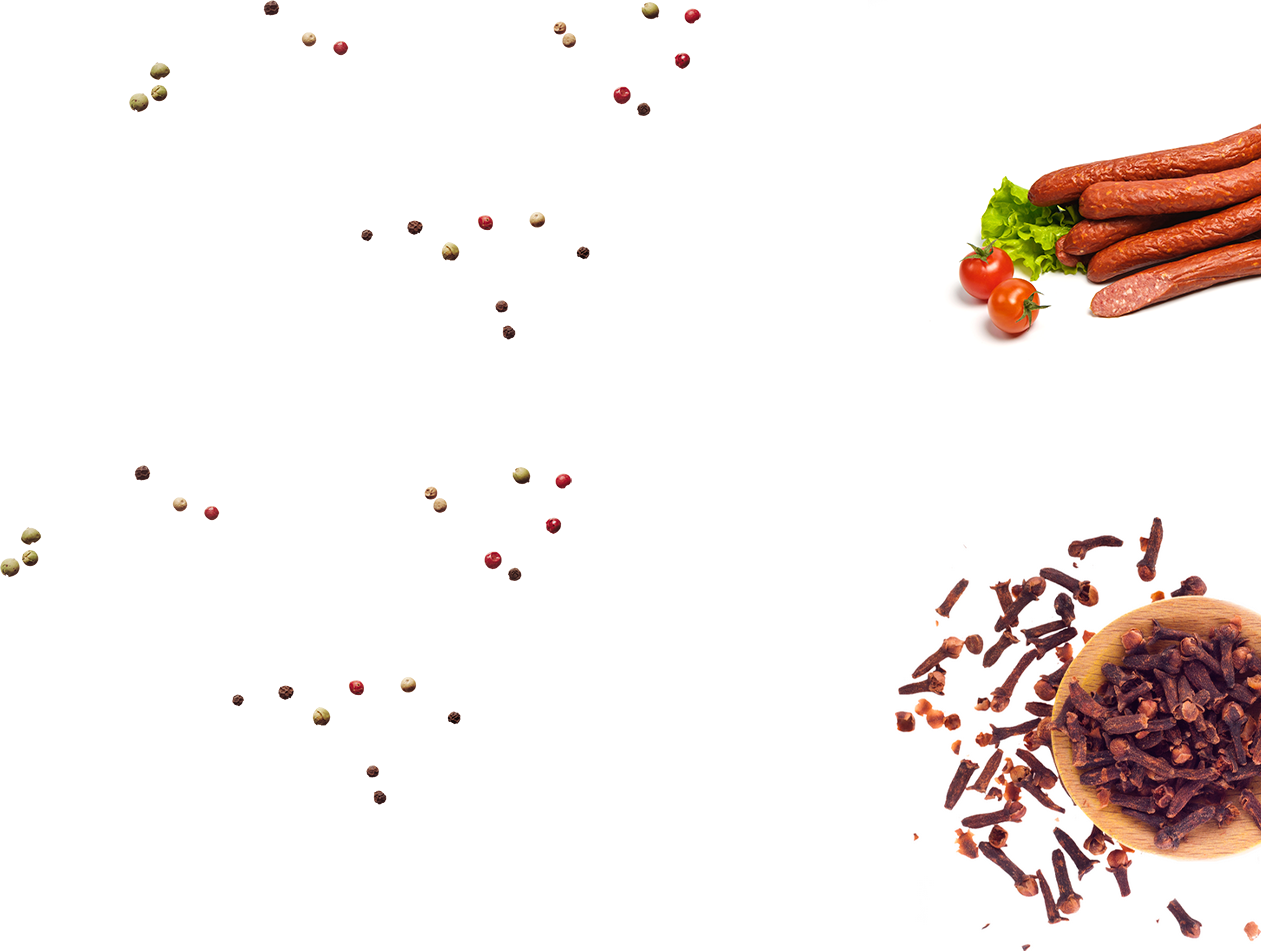
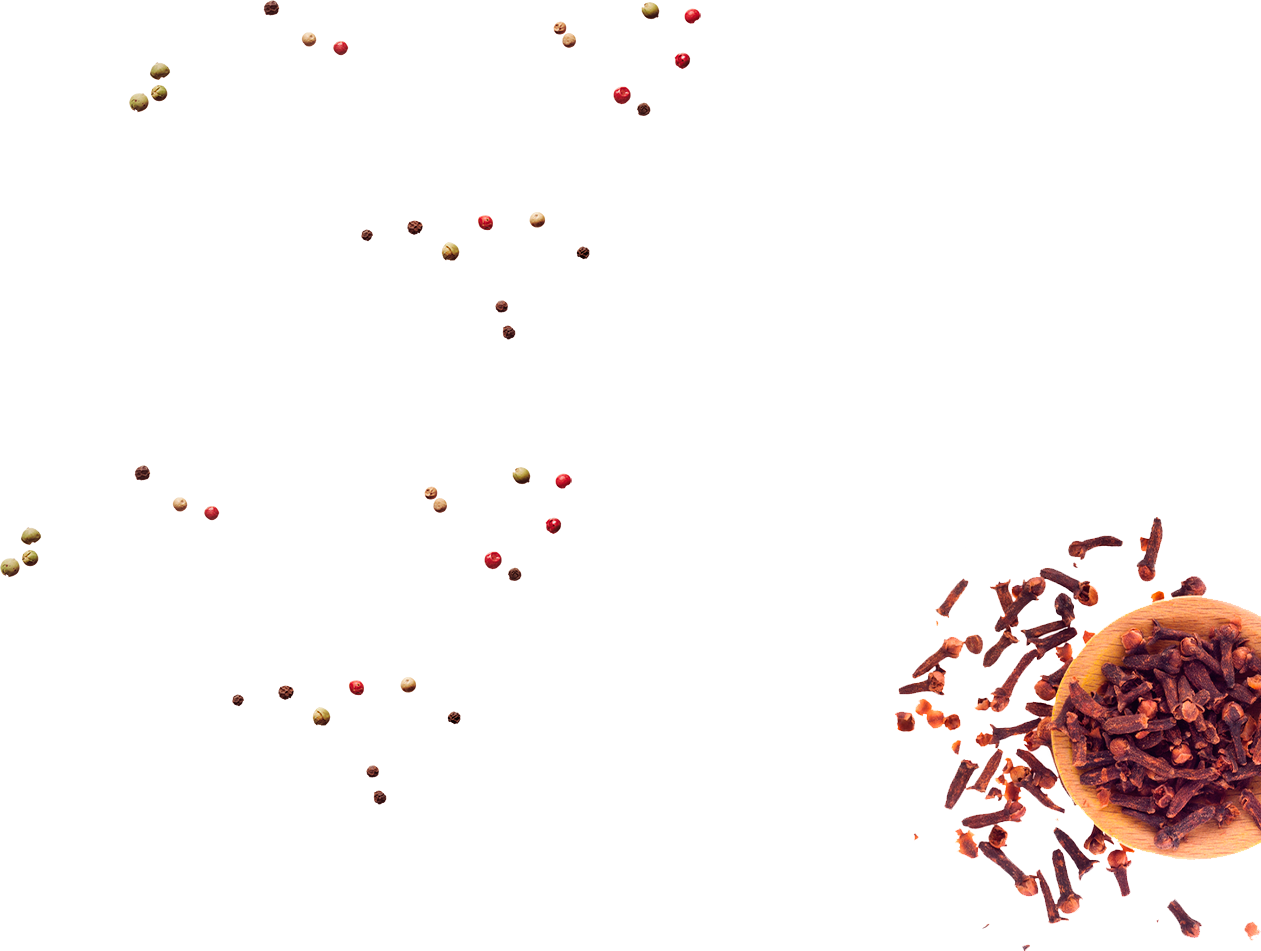
last mod

diff --git a/source/style/common/sections/sec-range.scss b/source/style/common/sections/sec-range.scss
@@ -3,19 +3,27 @@
 .range {
 
 	padding-top: 60px;
+	padding-bottom: 100px;
 
 	&__header {
-
-		@extend .contacts__header;
+		@extend .interest__header;
 		margin-bottom: 60px;
 	}
 
 	&-product {
 
+		background: url('../img/range-bg-3.png') right 13% no-repeat,
+					url('../img/catalog-item-bg-5.png') left 30% no-repeat,
+					url('../img/catalog-item-bg-2.png') right 45% no-repeat,
+					url('../img/catalog-item-bg-3.png') left 65% no-repeat,
+					url('../img/range-bg-5.png') right 82% no-repeat,
+					url('../img/catalog-item-bg-1.png') left 100% no-repeat;
+
 		&__header {
 
 			width: 100%;
 			margin-bottom: 60px;
+			background-color: $white-color;
 
 			.requisites {
 				height: 250px;
@@ -49,9 +57,10 @@
 		.range__list {
 			@include font-type($black-color, $regular-font, 1.4em, 1.2, 0);
 			width: 100%;
-			margin: 0 30px;
+			margin: 0 50px 0 30px;
 
 			border: 1px solid $black-color;
+			background-color: rgba(255,255,255,.9);
 
 			th,
 			td,
@@ -98,7 +107,6 @@
 		padding-left: 100px;
 		text-decoration: underline;
 		text-align: center;
-		margin-bottom: 100px;
 		@include font-type($black-color, $bold-font, 1.8em, 100px, 0);
 	}
 }

diff --git a/source/style/common/sections/sec-contacts.scss b/source/style/common/sections/sec-contacts.scss
@@ -3,7 +3,8 @@
 .contacts {
 
 	padding: 75px 20px 190px;
-    background: #fff url('../img/cont-bg.png') center 180px no-repeat;
+    background: url('../img/cont-bg.png') center 180px no-repeat,
+    			url('../img/catalog-item-bg-2.png') 100% 53% no-repeat;
 	
 	&__header {
 
